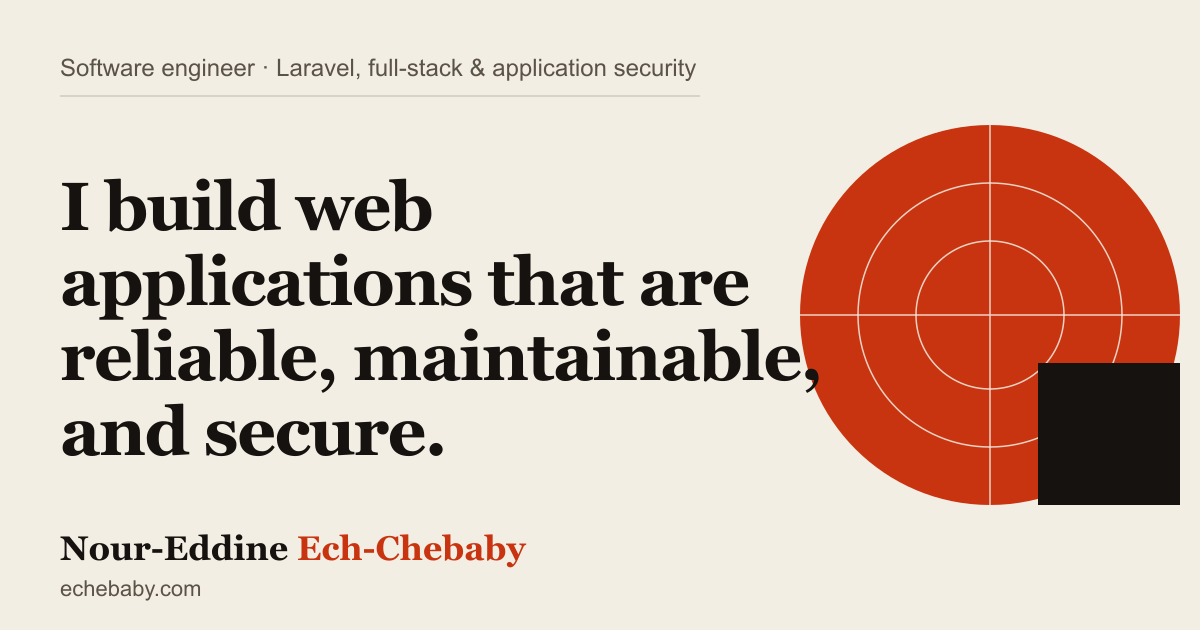
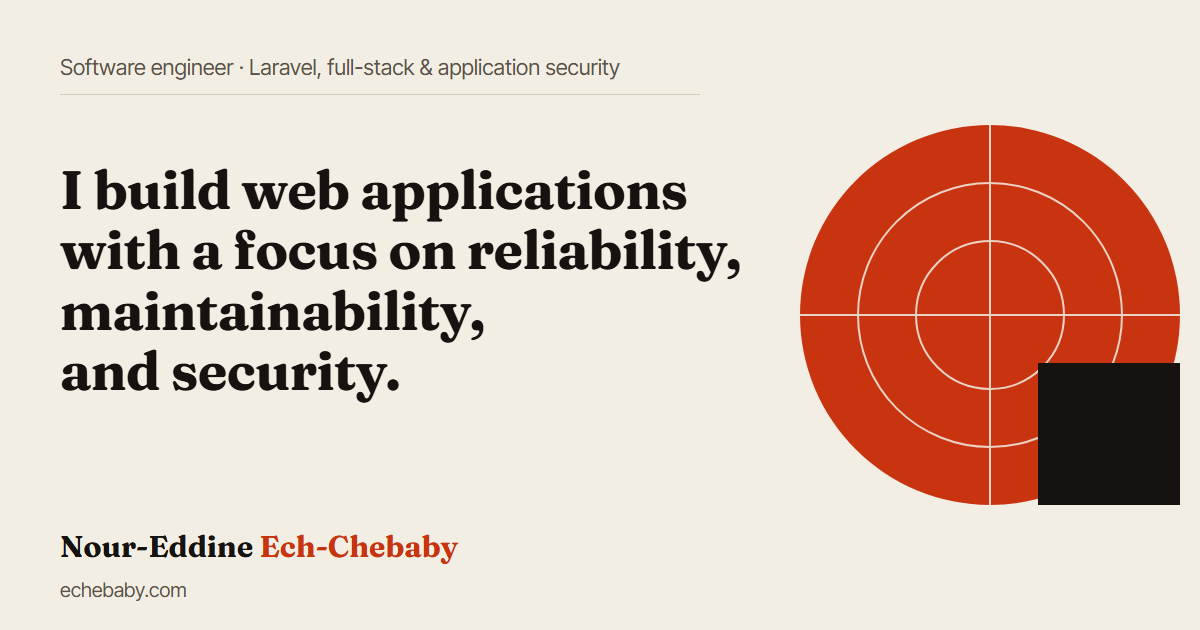
refine portfolio copy and regenerate og-image
Reword the hero headline and metadata to state engineering priorities
(reliability, maintainability, security) rather than guarantees, and
tighten the capabilities, principles, projects and contact copy.
Widen the hero h1 so the longer headline wraps to a similar line count,
and regenerate the Open Graph image with the new headline.

diff --git a/src/data/projects.ts b/src/data/projects.ts
@@ -36,7 +36,7 @@ export const projects: Project[] = [
       'The platform itself handles timed play sessions, group play with leaderboards, a points system and protection against duplicate mission rewards. That design belongs to the codebase as a whole; my own contributions are the ones listed below.',
     ],
     contributions: [
-      'Production deployment setup: a containerized stack that runs the web application, background jobs, scheduled tasks, real-time messaging and the database as separate services, so each can be managed on its own. This is the configuration; I make no claim about how a live deployment performed.',
+      'Production deployment setup: a containerized stack that runs the web application, background jobs, scheduled tasks, real-time messaging and the database as separate services, so each can be managed on its own. This describes the configuration, not how a live deployment performed.',
       'Mission-location administration: reworked the admin controls for a mission’s location with coordinate checking, radius presets and clearer errors that keep the admin’s input for correction, backed by frontend tests for edge cases and accessibility.',
       'Deployment script: production environment configuration and a script improved for error handling and the order of its commands.',
       'Seeding reliability: fixed a seeding failure reported in production by correcting how the admin and user factories generate fake data.',
@@ -100,7 +100,7 @@ export const projects: Project[] = [
       'Program and project matching: a weighted ranking that matches projects to programs using eligibility criteria.',
       'Workflow logic: selection of a project holder’s lead active project, workflow middleware, and event-driven notifications with activity recording.',
       'Architecture and modelling: set the initial structure and modelled how projects, programs and their support relate, following Laravel conventions, with feature tests for partner authentication.',
-      'Infrastructure and maintenance: Docker build and Compose changes, container healthcheck corrections, and hands-on server maintenance, application installations and environment configuration. I make no claim about measured results.',
+      'Infrastructure and maintenance: Docker build and Compose changes, container healthcheck corrections, and hands-on server maintenance, application installations and environment configuration. Measured results are not covered here.',
     ],
     technologies: [
       'Laravel 11',
@@ -150,7 +150,7 @@ export const projects: Project[] = [
     ],
     contributions: [
       'Demand lifecycle automation: a scheduled command that automatically closes financing requests older than a configurable period. Its production schedule is not covered here.',
-      'City search: replaced loading a full city list into each of the three request forms with search-as-you-type, coordinating the form, a search endpoint and a database index. No benchmark exists, so I make no speed claim.',
+      'City search: replaced loading a full city list into each of the three request forms with search-as-you-type, coordinating the form, a search endpoint and a database index. No benchmark was taken, so there is no speed claim.',
       'Transfer document: made the PDF in the accepted-application transfer more accurate and complete, covering borrower and co-borrower details, living arrangements, income and profession information, and financing summary labels and dates.',
       'Data consistency: fixed co-borrower reuse so submitted details update the existing record, and prevented duplicate transfer notifications and an offer display bug.',
     ],

diff --git a/src/config/site.ts b/src/config/site.ts
@@ -6,7 +6,7 @@ export const site = {
   jobTitle: 'Software Engineer',
   title: 'Nour-Eddine Ech-Chebaby | Software Engineer: Laravel, full-stack and application security',
   description:
-    'Software engineer building reliable, maintainable and secure web applications: Laravel and PHP backends, React frontends, application security and deployment. Based in Morocco, working internationally.',
+    'Software engineer building web applications with a focus on reliability, maintainability and security: Laravel and PHP backends, React frontends, application security and deployment. Based in Morocco, working internationally.',
 
   /** Public contact address, shown on the page and used by the mailto fallback. */
   email: import.meta.env.PUBLIC_CONTACT_EMAIL || 'contact.chebaby@gmail.com',

diff --git a/src/data/principles.ts b/src/data/principles.ts
@@ -24,10 +24,11 @@ export const principles: Principle[] = [
   },
   {
     title: 'Ready for production',
-    description: 'Deployment, queues, workers and maintenance are part of the job, not someone else’s problem.',
+    description: 'Deployment, queues, workers and maintenance are part of the job, not an afterthought.',
   },
   {
     title: 'Pragmatic about technology',
-    description: 'That includes AI: I will say so plainly when a simpler approach is the better one.',
+    description:
+      'I weigh trade-offs and technical debt before choosing tools, and that includes AI: I will say plainly when a simpler approach is the better one.',
   },
 ];

diff --git a/src/data/capabilities.ts b/src/data/capabilities.ts
@@ -28,7 +28,7 @@ export const capabilities: Capability[] = [
     maturity: 'focus',
     maturityLabel: 'Focus area',
     description:
-      'Secure software engineering at the application level: hardening, reviewing application-level risks and improving security practices. This is engineering work, not a formal audit or certification.',
+      'Security as part of application engineering: access control, input handling, dependency management and hardening, plus review of application-level risks. This is engineering work, not a formal audit or certification.',
   },
   {
     title: 'Deployment & Infrastructure',
